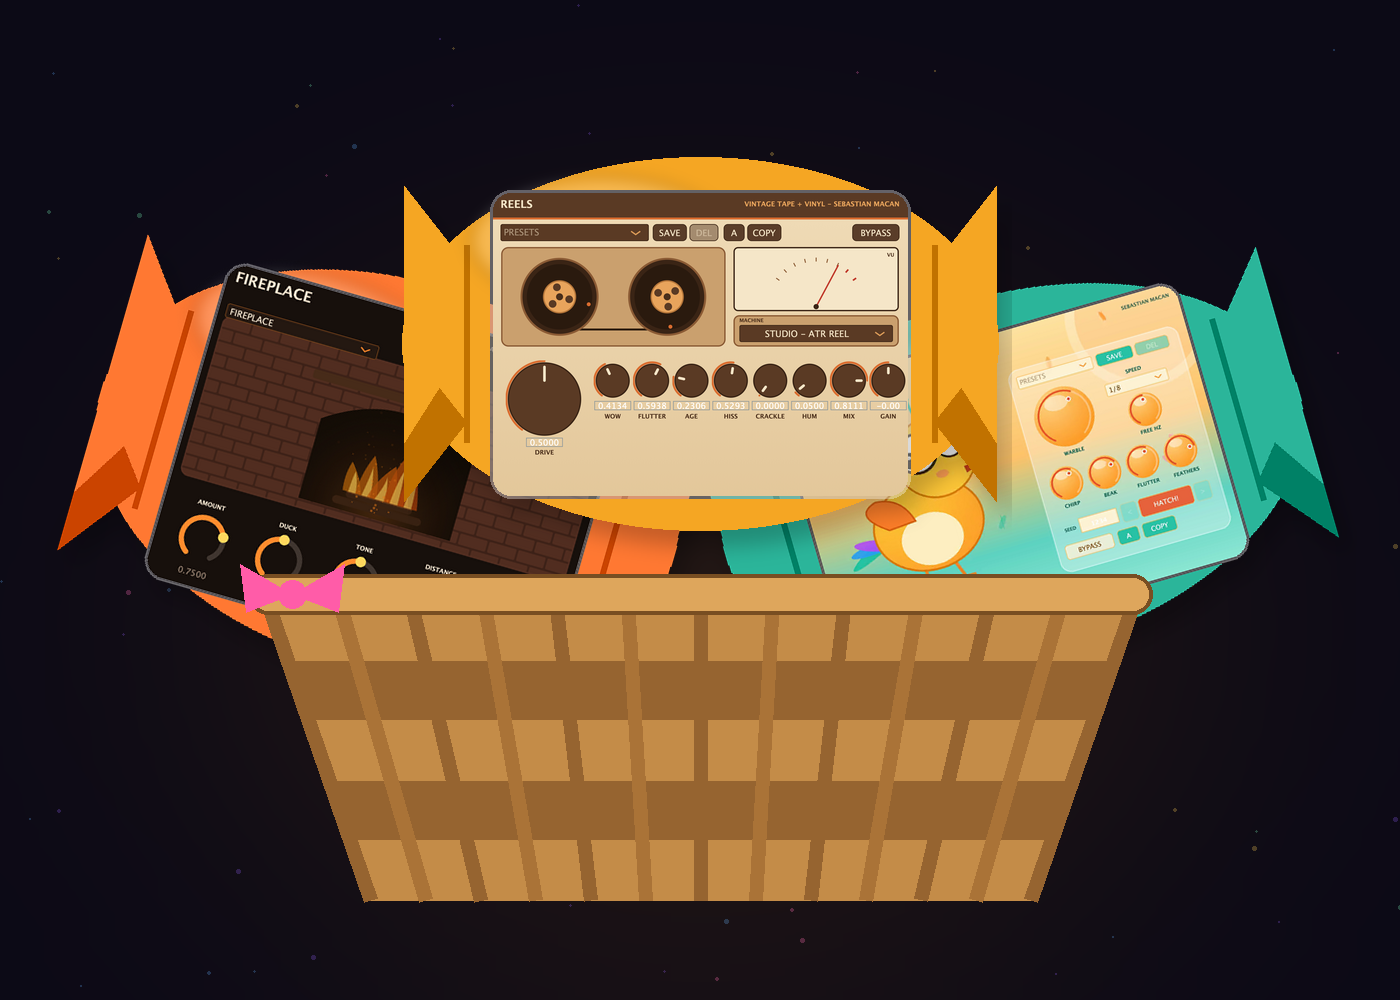
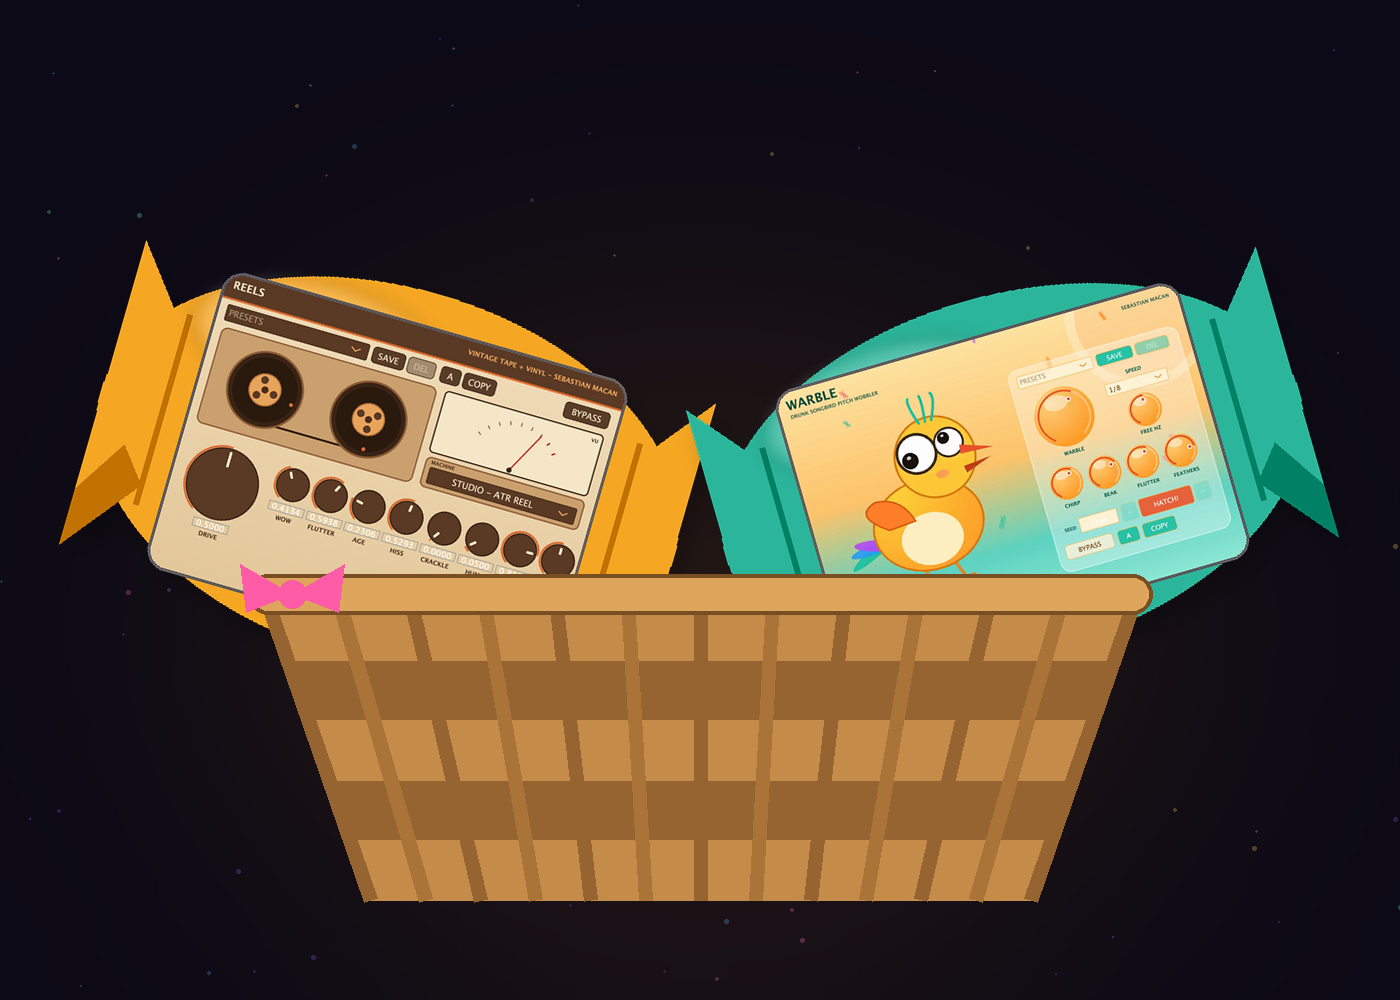
Reels NEW badge visible (card gradient vars were missing) + v2.0.1 meta; lofi bundle art shows only live plugins (Reels+Warble) until Fireplace ships

Changed region(s): [[0.0307, 0.155, 0.7371, 0.651]]

diff --git a/index.html b/index.html
@@ -52,6 +52,7 @@
   .fizz   { --g1:#ffb347; --g2:#c8f05a; --glow:#ffb347; --shadow:rgba(255,179,71,.26); }
   .wizard { --g1:#8b6bff; --g2:#ffd84a; --glow:#8b6bff; --shadow:rgba(139,107,255,.26); }
   .halo { --g1:#ffd47e; --g2:#fff3d0; --glow:#ffd47e; --shadow:rgba(255,212,126,.26); }
+  .reels { --g1:#e8a05c; --g2:#f5d7a1; --glow:#e8a05c; --shadow:rgba(232,160,92,.26); }
   .biome  { --g1:#3ecf6e; --g2:#5ad9d0; --glow:#3ecf6e; --shadow:rgba(62,207,110,.26); }
   .hitchords { --g1:#f2f2f4; --g2:#8b5cf6; --glow:#8b5cf6; --shadow:rgba(139,92,246,.26); }
   .clubchords { --g1:#4ad9ff; --g2:#ff4ad9; --glow:#4ad9ff; --shadow:rgba(74,217,255,.26); }
@@ -208,7 +209,7 @@
       <div class="shot"><video autoplay muted loop playsinline preload="metadata" poster="img/ui/reels.png?v=2.0.1"><source src="img/video/reels_ui_loop.mp4?v=2.0.1" type="video/mp4"></video></div>
       <a class="dl" style="background:linear-gradient(135deg,#e8a05c,#f5d7a1);box-shadow:0 6px 28px rgba(232,160,92,.26);" href="downloads/Reels-v2.0.1-macOS.pkg">Download Reels</a>
       <a class="more" href="reels.html">See how it works &rarr;</a>
-      <div class="meta">v1.0 · VST3 + AU effect</div>
+      <div class="meta">v2.0.1 · VST3 + AU effect</div>
     </div>
     <div class="card halo">
       <span class="new">NEW</span>
@@ -340,7 +341,7 @@
       </div>
     </a>
     <a class="bundle lofi-b" href="basket-lofi.html">
-      <img src="img/bundles/lofi_bundle.png" alt="Lofi Bundle: Reels and Warble as wrapped candy in a basket" loading="lazy">
+      <img src="img/bundles/lofi_bundle.png?v=2" alt="Lofi Bundle: Reels and Warble as wrapped candy in a basket" loading="lazy">
       <div class="binner">
         <h3>LOFI BUNDLE</h3>
         <p class="desc">Reels and Warble. Subtle tape warmth plus a weird little songbird. The bedroom lofi starter kit.</p>
